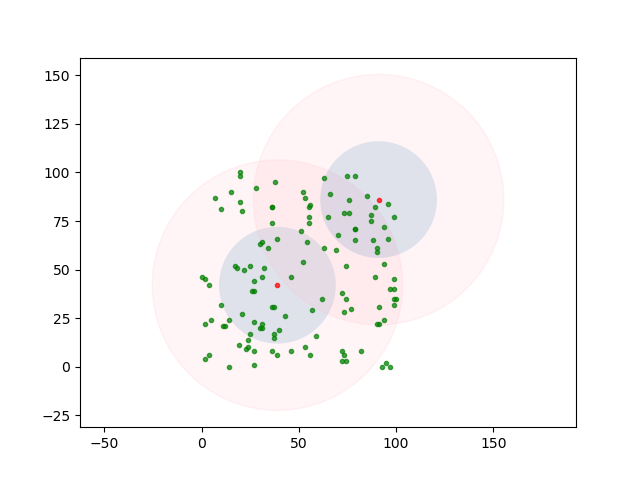
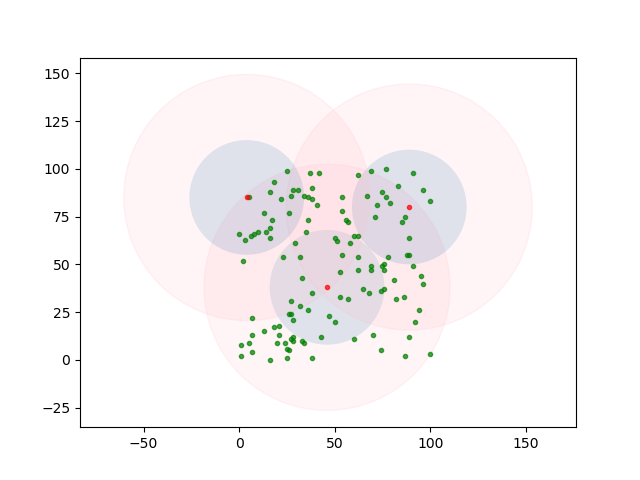
fixing 2.0

diff --git a/l_3_(fixing value t and r2).py b/l_3_(fixing value t and r2).py
@@ -314,8 +314,8 @@ def start():
     print("Choose 0 set new input")
     print("Choose 1 loop with fixed T-value")
     print("Choose 2 loop with dynamic T-value")
-    print("Choose 3 get 1 lap with fixed T-value")
-    print("Choose 4 get 1 lap with dynamic T-value")
+    print("Choose 3 get N lap with fixed T-value")
+    print("Choose 4 get N lap with dynamic T-value")
     choose = int(input("choose : "))
     print(" ")
     print("*************************************")
@@ -395,7 +395,7 @@ def start():
 
 
             cluster_member, node_member = \
-                back_to_nodes(cluster_member, node_member)
+                back_to_nodes(cluster_member, node_member, max_dis, r1)
             
             count_lap += 1
             if dead == 1:
@@ -451,7 +451,7 @@ def start():
 
 
             cluster_member, node_member = \
-                back_to_nodes(cluster_member, node_member)
+                back_to_nodes(cluster_member, node_member, max_dis, r1)
             
             count_lap += 1
             if dead == 1:
@@ -470,35 +470,38 @@ def start():
             read = csv.reader(csvnew)
             for line2 in read:
                 node_member.append(list(map(float, line2)))
-        with open("len_nodes.txt", "r") as text_file:
-                len_nodes = int(text_file.read())
+        
+        lap = int(input("set lap : "))
+        for _ in range(lap):
+            with open("len_nodes.txt", "r") as text_file:
+                    len_nodes = int(text_file.read())
 
-        cch, node_member = \
-            random_cch(node_member, len_nodes)
+            cch, node_member = \
+                random_cch(node_member, len_nodes)
+            
+
+            cluster_member, node_member ,dead = \
+                distance_candidate(node_member, cch, pkt_control, elec_tran,\
+                                    elec_rec, fs, mpf, d_threshold, r1,dead)
+
+
+            node_select, cluster_member, node_member, dead , data_distance, max_dis = \
+                nodes_select(cluster_member, node_member, pkt_control, \
+                                elec_tran, elec_rec, fs, mpf, d_threshold,\
+                                r2, data_distance , dead)
+
+
+            cluster_member, node_member ,dead = \
+                data_to_cluster(cluster_member, node_member, node_select, \
+                                pkt_data, elec_tran, elec_rec, fs, mpf, \
+                                d_threshold, station_member,dead)
+
+
+            plot_graph(cluster_member, node_member, cch, station_member, r1,r2,data_distance)
         
 
-        cluster_member, node_member ,dead = \
-            distance_candidate(node_member, cch, pkt_control, elec_tran,\
-                                elec_rec, fs, mpf, d_threshold, r1,dead)
-
-
-        node_select, cluster_member, node_member, dead , data_distance, max_dis = \
-            nodes_select(cluster_member, node_member, pkt_control, \
-                            elec_tran, elec_rec, fs, mpf, d_threshold,\
-                            r2, data_distance , dead)
-
-
-        cluster_member, node_member ,dead = \
-            data_to_cluster(cluster_member, node_member, node_select, \
-                            pkt_data, elec_tran, elec_rec, fs, mpf, \
-                            d_threshold, station_member,dead)
-
-
-        plot_graph(cluster_member, node_member, cch, station_member, r1,r2,data_distance)
-    
-
-        cluster_member, node_member = \
-                back_to_nodes(cluster_member, node_member)
+            cluster_member, node_member = \
+                    back_to_nodes(cluster_member, node_member, max_dis, r1)
 
     elif choose == 4:
         dead = 0
@@ -512,38 +515,42 @@ def start():
             read = csv.reader(csvnew)
             for line2 in read:
                 node_member.append(list(map(float, line2)))
-        with open("len_nodes.txt", "r") as text_file:
-                len_nodes = int(text_file.read())
-
-        cch, node_member = \
-            random_cch(node_member, len_nodes)
         
+        lap = int(input("set lap : "))
+        for _ in range(lap):
 
-        cluster_member, node_member ,dead = \
-            distance_candidate(node_member, cch, pkt_control, elec_tran,\
-                                elec_rec, fs, mpf, d_threshold, r1,dead)
+            with open("len_nodes.txt", "r") as text_file:
+                    len_nodes = int(text_file.read())
 
+            cch, node_member = \
+                random_cch(node_member, len_nodes)
+            
 
-        node_select, cluster_member, node_member, dead , data_distance, max_dis = \
-            nodes_select(cluster_member, node_member, pkt_control, \
-                            elec_tran, elec_rec, fs, mpf, d_threshold,\
-                            r2, data_distance , dead)
-
-
-        cluster_member, node_member ,dead = \
-            data_to_cluster(cluster_member, node_member, node_select, \
-                            pkt_data, elec_tran, elec_rec, fs, mpf, \
-                            d_threshold, station_member,dead)
-        
-
-        cluster_member, node_member = \
-                optimize_t(cluster_member, node_member, node_select, max_dis, r1)
+            cluster_member, node_member ,dead = \
+                distance_candidate(node_member, cch, pkt_control, elec_tran,\
+                                    elec_rec, fs, mpf, d_threshold, r1,dead)
 
 
-        plot_graph(cluster_member, node_member, cch, station_member, r1,r2,data_distance)
+            node_select, cluster_member, node_member, dead , data_distance, max_dis = \
+                nodes_select(cluster_member, node_member, pkt_control, \
+                                elec_tran, elec_rec, fs, mpf, d_threshold,\
+                                r2, data_distance , dead)
 
 
-        cluster_member, node_member = \
-                back_to_nodes(cluster_member, node_member, max_dis, r1)
+            cluster_member, node_member ,dead = \
+                data_to_cluster(cluster_member, node_member, node_select, \
+                                pkt_data, elec_tran, elec_rec, fs, mpf, \
+                                d_threshold, station_member,dead)
+            
+
+            cluster_member, node_member = \
+                    optimize_t(cluster_member, node_member, node_select, max_dis, r1)
+
+
+            plot_graph(cluster_member, node_member, cch, station_member, r1,r2,data_distance)
+
+
+            cluster_member, node_member = \
+                    back_to_nodes(cluster_member, node_member, max_dis, r1)
 
 start()
